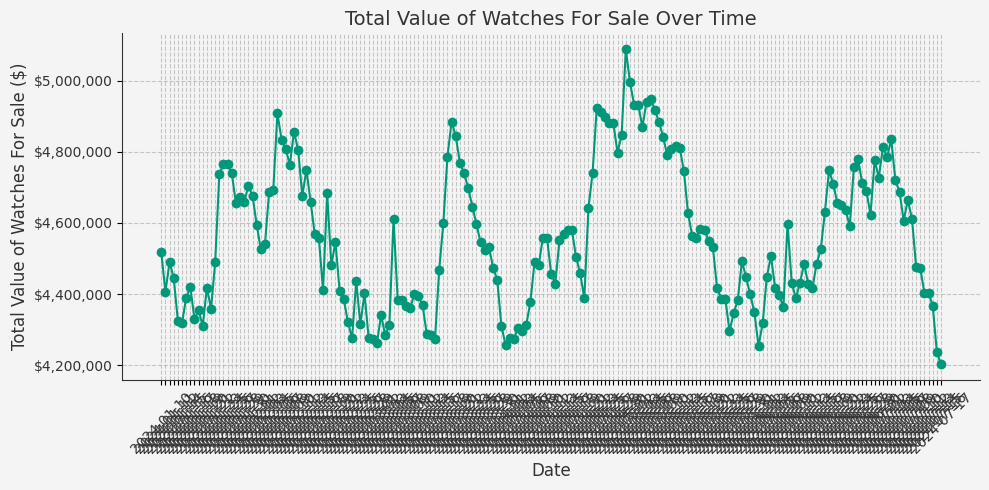
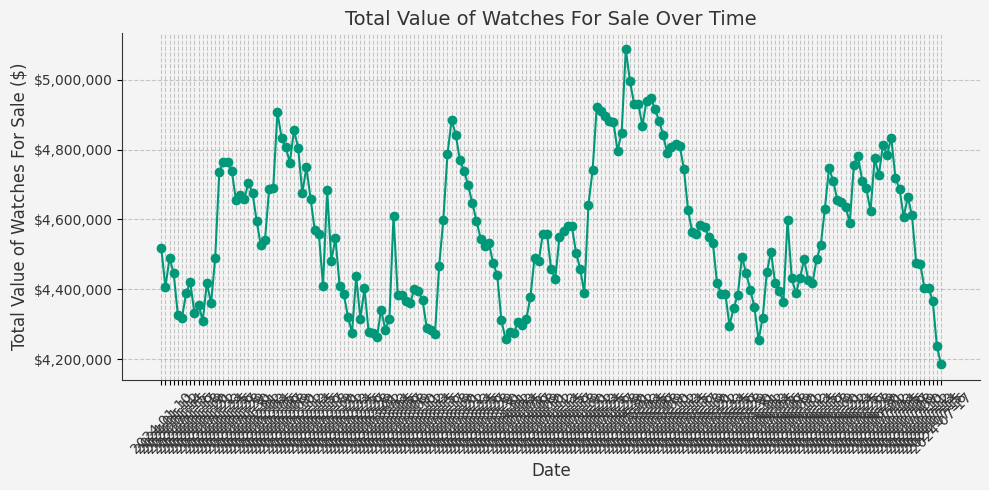
Update docs, portfolio image and portfolio statistics

diff --git a/docs/index.html b/docs/index.html
@@ -57,9 +57,9 @@
     <h1>Watch Data Report - 2024-07-17</h1>
     <div class="stats">
         <h3>Summary Statistics</h3>
-        <p>Value of sold Watches: $34,900.00</p>
+        <p>Value of sold Watches: $56,850.00</p>
         <p>Value of listed Watches: $0.00</p>
-        <p>Value of unsold Watches: $4,202,650.00</p>
+        <p>Value of unsold Watches: $4,184,550.00</p>
     </div>
     <h2>Price Changes Today:</h2>
     <table border="1" class="dataframe table">
@@ -72,6 +72,54 @@
     </tr>
   </thead>
   <tbody>
+    <tr>
+      <td>1971 Rolex Submariner 5512</td>
+      <td>$17,550.00</td>
+      <td>$16,850.00</td>
+      <td><a href="https://tropicalwatch.com/watches/4zy4" target="_blank">Link</a></td>
+    </tr>
+    <tr>
+      <td>1966 Rolex Gmt-Master 1675 Gilt Dial</td>
+      <td>$31,550.00</td>
+      <td>$30,750.00</td>
+      <td><a href="https://tropicalwatch.com/watches/neds" target="_blank">Link</a></td>
+    </tr>
+    <tr>
+      <td>1974 Rolex Explorer Ii 1655 Mk 2 Dial</td>
+      <td>$21,350.00</td>
+      <td>$19,850.00</td>
+      <td><a href="https://tropicalwatch.com/watches/wyp6" target="_blank">Link</a></td>
+    </tr>
+    <tr>
+      <td>2000 Rolex Gmt-Master Ii 16710 With Papers</td>
+      <td>$12,550.00</td>
+      <td>$11,950.00</td>
+      <td><a href="https://tropicalwatch.com/watches/ipfr" target="_blank">Link</a></td>
+    </tr>
+    <tr>
+      <td>1946 Rolex Oyster Chronographe 4500 Silver Tropical Dial</td>
+      <td>$27,950.00</td>
+      <td>$27,550.00</td>
+      <td><a href="https://tropicalwatch.com/watches/sthw" target="_blank">Link</a></td>
+    </tr>
+    <tr>
+      <td>2005 Rolex 18K Wg Daytona 116509 Silver Arabic Racing Dial With Box And Service Card</td>
+      <td>$28,950.00</td>
+      <td>$28,750.00</td>
+      <td><a href="https://tropicalwatch.com/watches/cy7t" target="_blank">Link</a></td>
+    </tr>
+    <tr>
+      <td>1998 Rolex Zenith Daytona 16520 White Dial</td>
+      <td>$21,850.00</td>
+      <td>$20,950.00</td>
+      <td><a href="https://tropicalwatch.com/watches/xgdq" target="_blank">Link</a></td>
+    </tr>
+    <tr>
+      <td>1976 Rolex 18K Yg Day-Date 1803 Champagne Dial</td>
+      <td>sold</td>
+      <td>$8,950.00</td>
+      <td><a href="https://tropicalwatch.com/watches/miwv" target="_blank">Link</a></td>
+    </tr>
   </tbody>
 </table>
 
@@ -98,6 +146,11 @@
     </tr>
   </thead>
   <tbody>
+    <tr>
+      <td>1965 Rolex Submariner 5513 With Service Papers</td>
+      <td>Sold</td>
+      <td><a href="https://tropicalwatch.com/watches/v02a" target="_blank">Link</a></td>
+    </tr>
     <tr>
       <td>1987 Rolex Datejust 16234 Silver Dial</td>
       <td>Sold</td>
